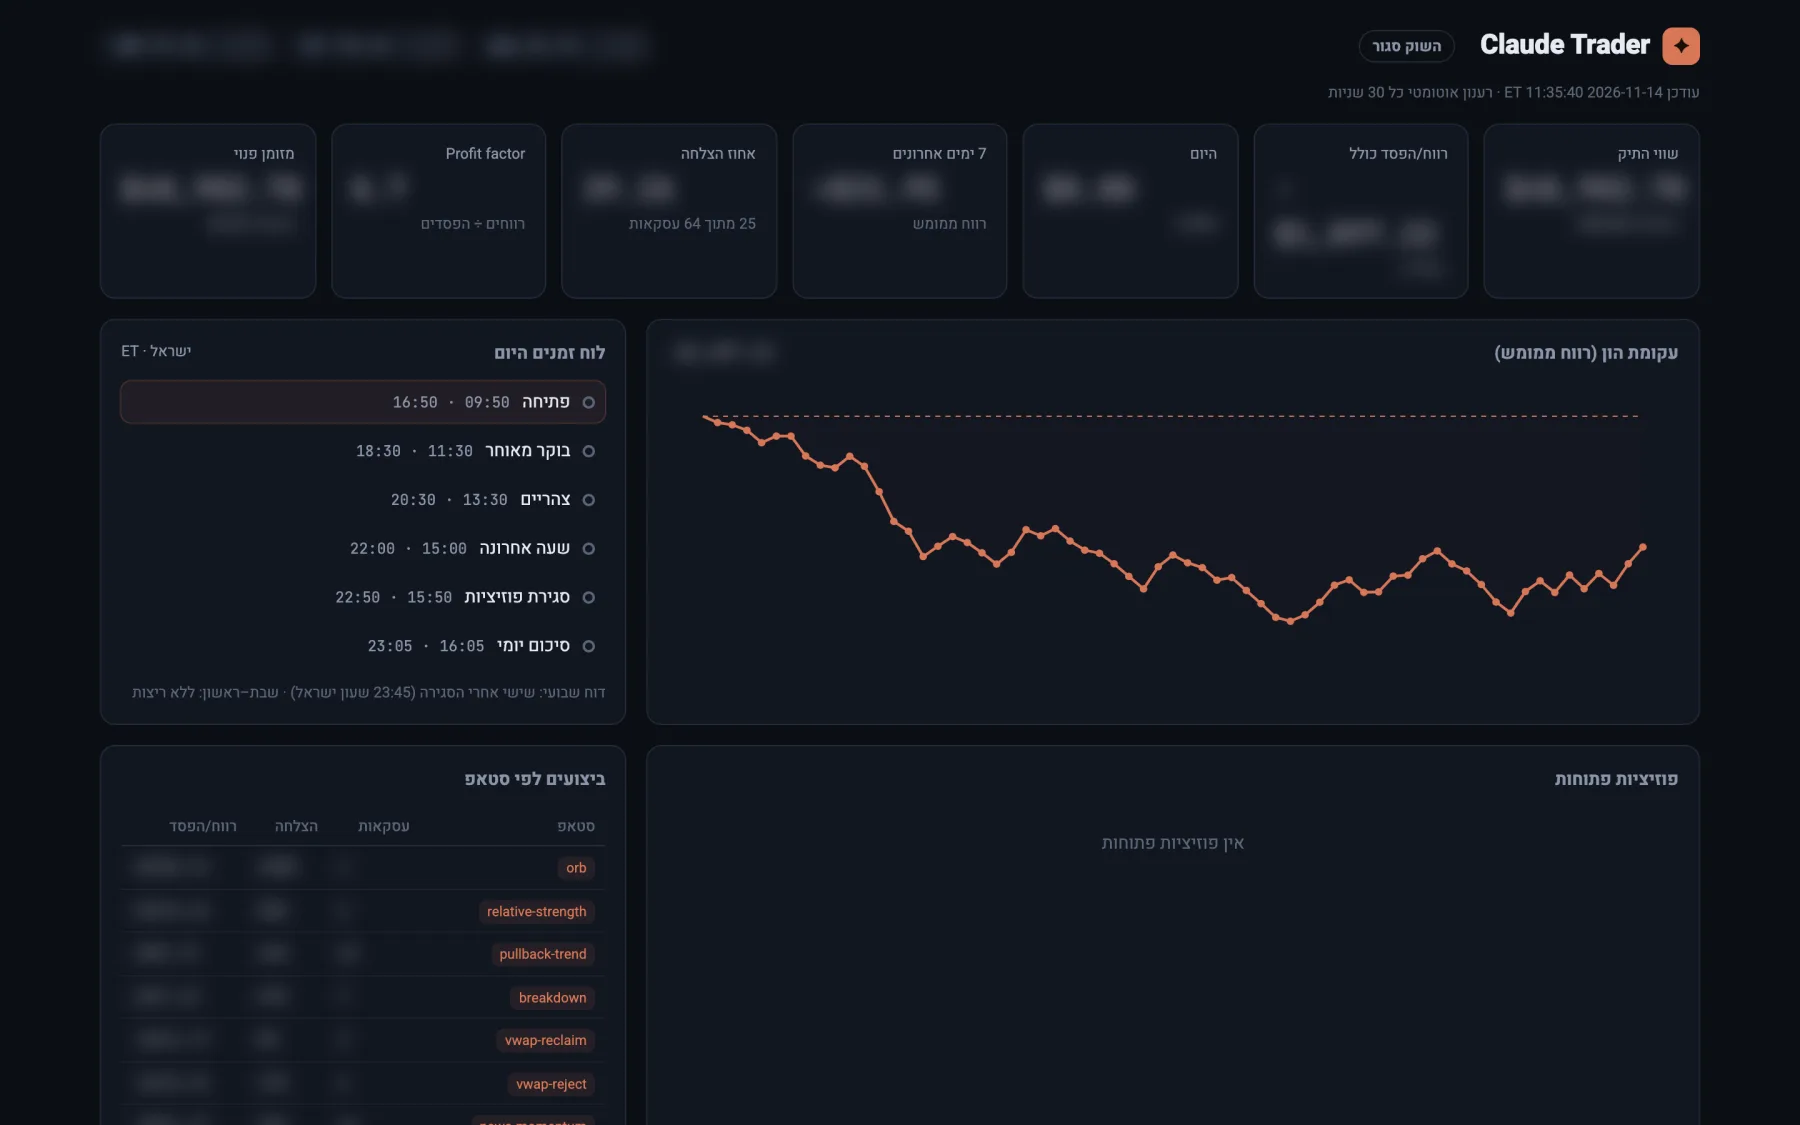
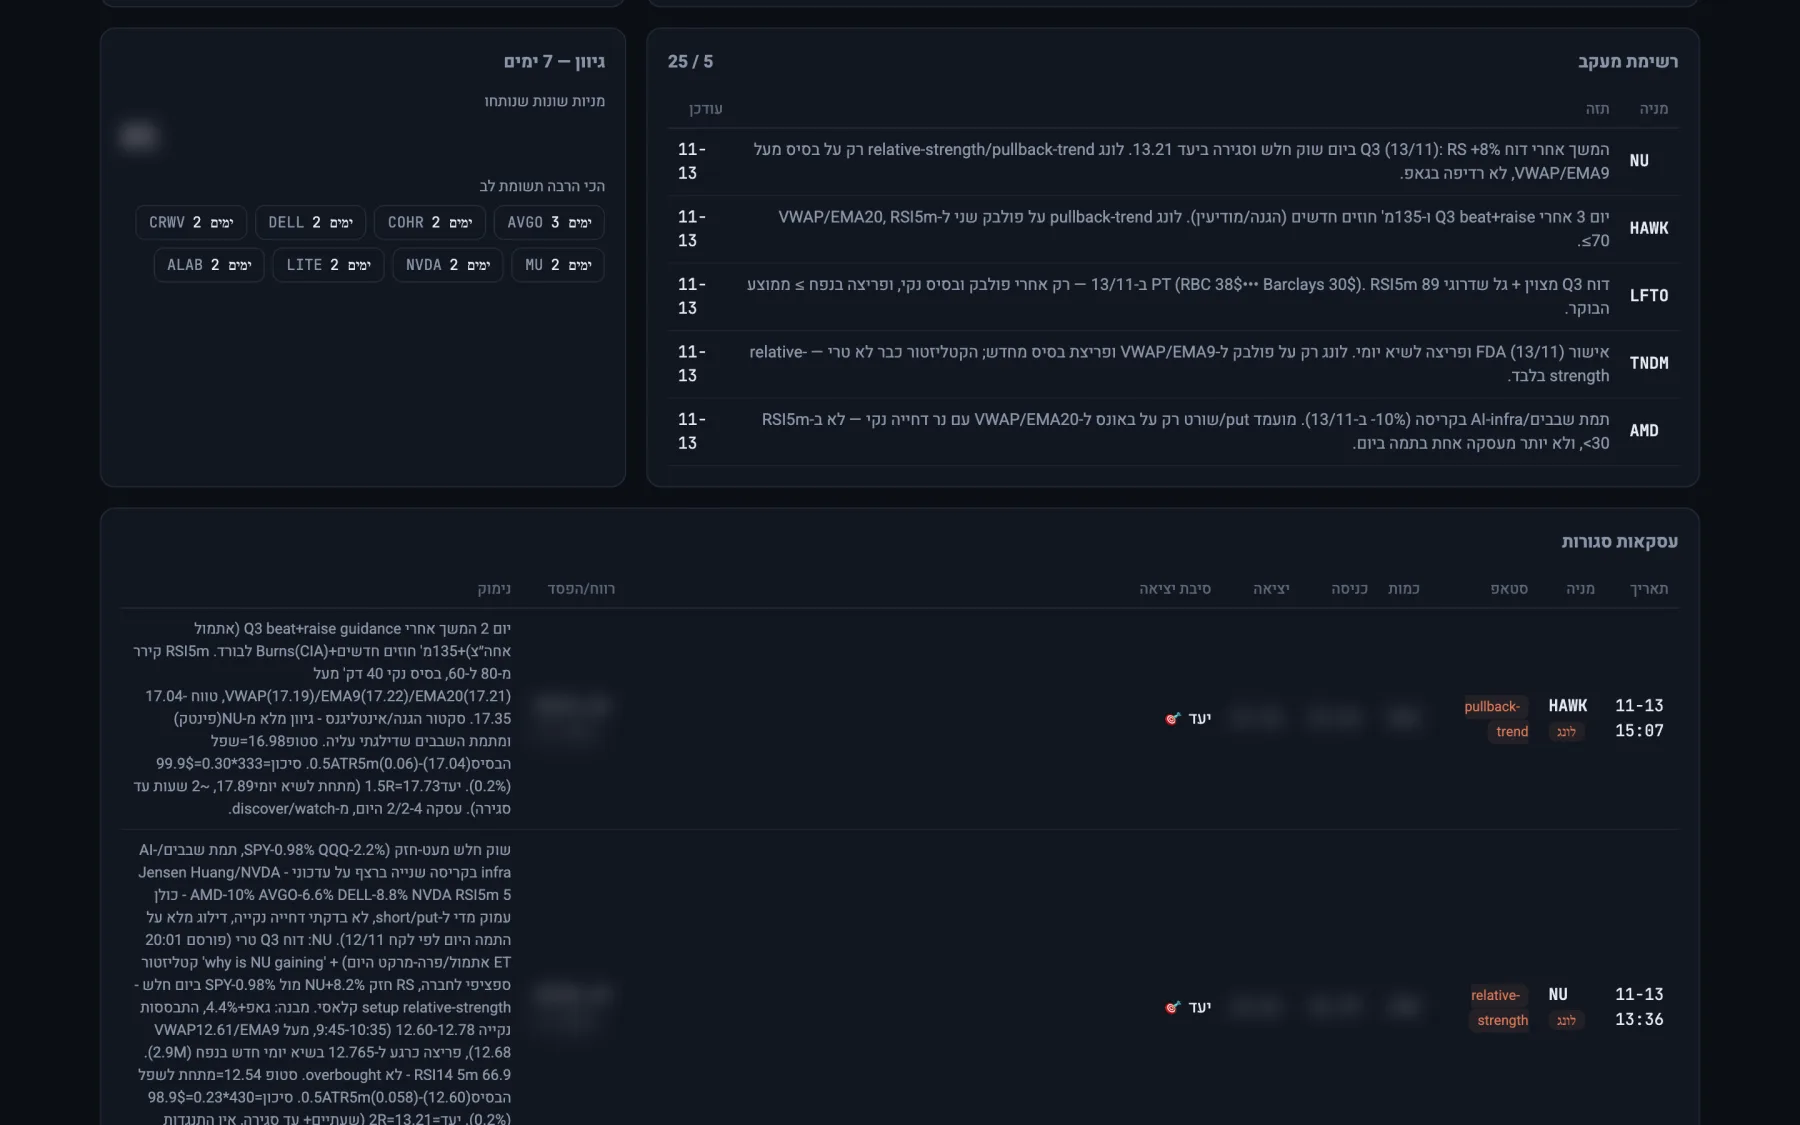
Add full name; replace Claude Trader screenshot with watchlist & trade reasoning

diff --git a/data.js b/data.js
@@ -1,7 +1,7 @@
 // Portfolio content — every user-facing string has he + en.
 window.I18N = {
   he: {
-    brand: "עידו",
+    brand: "עידו רפאל",
     navWork: "עבודות", navAbout: "אודות", navContact: "צור קשר",
     heroEyebrow: "פורטפוליו · 2026",
     heroTitle: 'מרעיון.<br><span class="grad">ועד החנות.</span>',
@@ -16,14 +16,14 @@ window.I18N = {
     contactTitle: 'יש לך רעיון?<br><span class="grad">בוא נבנה אותו.</span>',
     contactLead: "פתוח לפרויקטים, שיתופי פעולה ותפקידים.",
     contactMail: "שליחת מייל",
-    footer: "עוצב ונבנה על ידי עידו",
+    footer: "עוצב ונבנה על ידי עידו רפאל",
     all: "הכול", learnMore: "פרטים נוספים", live: "חי", private: "קוד פרטי — זמין לפי בקשה",
     showcase: "ריפו תצוגה", highlights: "מה בפנים", stackLabel: "טכנולוגיות",
     visit: "לאתר", github: "קוד ב-GitHub", appStore: "App Store", googlePlay: "Google Play",
     status: { live: "חי", store: "בחנויות", local: "רץ מקומית", cloud: "רץ בענן", dev: "בפיתוח" },
   },
   en: {
-    brand: "Ido",
+    brand: "Ido Rafael",
     navWork: "Work", navAbout: "About", navContact: "Contact",
     heroEyebrow: "Portfolio · 2026",
     heroTitle: 'From idea.<br><span class="grad">To the App Store.</span>',
@@ -38,7 +38,7 @@ window.I18N = {
     contactTitle: 'Got an idea?<br><span class="grad">Let’s build it.</span>',
     contactLead: "Open to projects, collaborations and roles.",
     contactMail: "Email me",
-    footer: "Designed and built by Ido",
+    footer: "Designed and built by Ido Rafael",
     all: "All", learnMore: "Learn more", live: "Live", private: "Private code — available on request",
     showcase: "Showcase repo", highlights: "Highlights", stackLabel: "Built with",
     visit: "Visit site", github: "Code on GitHub", appStore: "App Store", googlePlay: "Google Play",
@@ -167,7 +167,7 @@ window.PROJECTS = [
         "חמישה סבבי מסחר מתוזמנים ביום, שרצים בענן כ-Claude Code Routines",
         "אסטרטגיות מוגדרות: ORB, VWAP, חוזק יחסי, pullback — עם מעקב ביצועים לכל סטאפ",
         "מצב נשמר ב-git בסוף כל סבב; התראות טלגרם דרך GitHub Actions",
-        "דשבורד חי: עקומת הון, אחוז הצלחה ולוח הזמנים של היום",
+        "דשבורד חי: רשימת מעקב עם תזה לכל מניה, ונימוק מלא מאחורי כל עסקה",
       ],
     },
     en: {
@@ -178,7 +178,7 @@ window.PROJECTS = [
         "Five scheduled trading sessions a day, running in the cloud as Claude Code Routines",
         "Defined strategies — ORB, VWAP, relative strength, pullback — with per-setup stats",
         "State committed to git after every session; Telegram alerts via GitHub Actions",
-        "Live dashboard: equity curve, win rate and the day’s schedule",
+        "Live dashboard: a watchlist with a thesis per ticker, and the full reasoning behind every trade",
       ],
     },
   },

diff --git a/index.html b/index.html
@@ -3,11 +3,11 @@
 <head>
 <meta charset="utf-8">
 <meta name="viewport" content="width=device-width, initial-scale=1, viewport-fit=cover">
-<title>Ido — Portfolio</title>
-<meta name="description" content="Products, apps and AI agents built by Ido — InvestIQ, Co-Drive, StockAI, Claude Trader and more.">
+<title>Ido Rafael — Portfolio</title>
+<meta name="description" content="Products, apps and AI agents built by Ido Rafael — InvestIQ, Co-Drive, StockAI, Claude Trader and more.">
 <meta name="theme-color" content="#fbfbfd" media="(prefers-color-scheme: light)">
 <meta name="theme-color" content="#000000" media="(prefers-color-scheme: dark)">
-<meta property="og:title" content="Ido — Portfolio">
+<meta property="og:title" content="Ido Rafael — Portfolio">
 <meta property="og:description" content="Products, apps and AI agents — from idea to the App Store.">
 <meta property="og:image" content="assets/img/stock-1.webp">
 <link rel="icon" href="assets/favicon.svg" type="image/svg+xml">
@@ -20,7 +20,7 @@
 
 <header class="nav" id="nav">
   <div class="nav-inner">
-    <a href="#top" class="brand" data-i18n="brand">עידו</a>
+    <a href="#top" class="brand" data-i18n="brand">עידו רפאל</a>
     <nav class="nav-links">
       <a href="#work" data-i18n="navWork">עבודות</a>
       <a href="#about" data-i18n="navAbout">אודות</a>
@@ -103,7 +103,7 @@
 </main>
 
 <footer class="foot">
-  <p><span data-i18n="footer">עוצב ונבנה על ידי עידו</span> · © <span id="year"></span></p>
+  <p><span data-i18n="footer">עוצב ונבנה על ידי עידו רפאל</span> · © <span id="year"></span></p>
 </footer>
 
 <!-- Project detail sheet -->

diff --git a/app.js b/app.js
@@ -82,7 +82,7 @@
     document.querySelectorAll("[data-i18n]").forEach((el) => { el.textContent = t(el.dataset.i18n); });
     document.querySelectorAll("[data-i18n-html]").forEach((el) => { el.innerHTML = t(el.dataset.i18nHtml); });
     document.querySelectorAll(".seg button").forEach((b) => b.setAttribute("aria-pressed", String(b.dataset.lang === lang)));
-    document.title = lang === "he" ? "עידו — פורטפוליו" : "Ido — Portfolio";
+    document.title = lang === "he" ? "עידו רפאל — פורטפוליו" : "Ido Rafael — Portfolio";
   }
 
   function render() {
